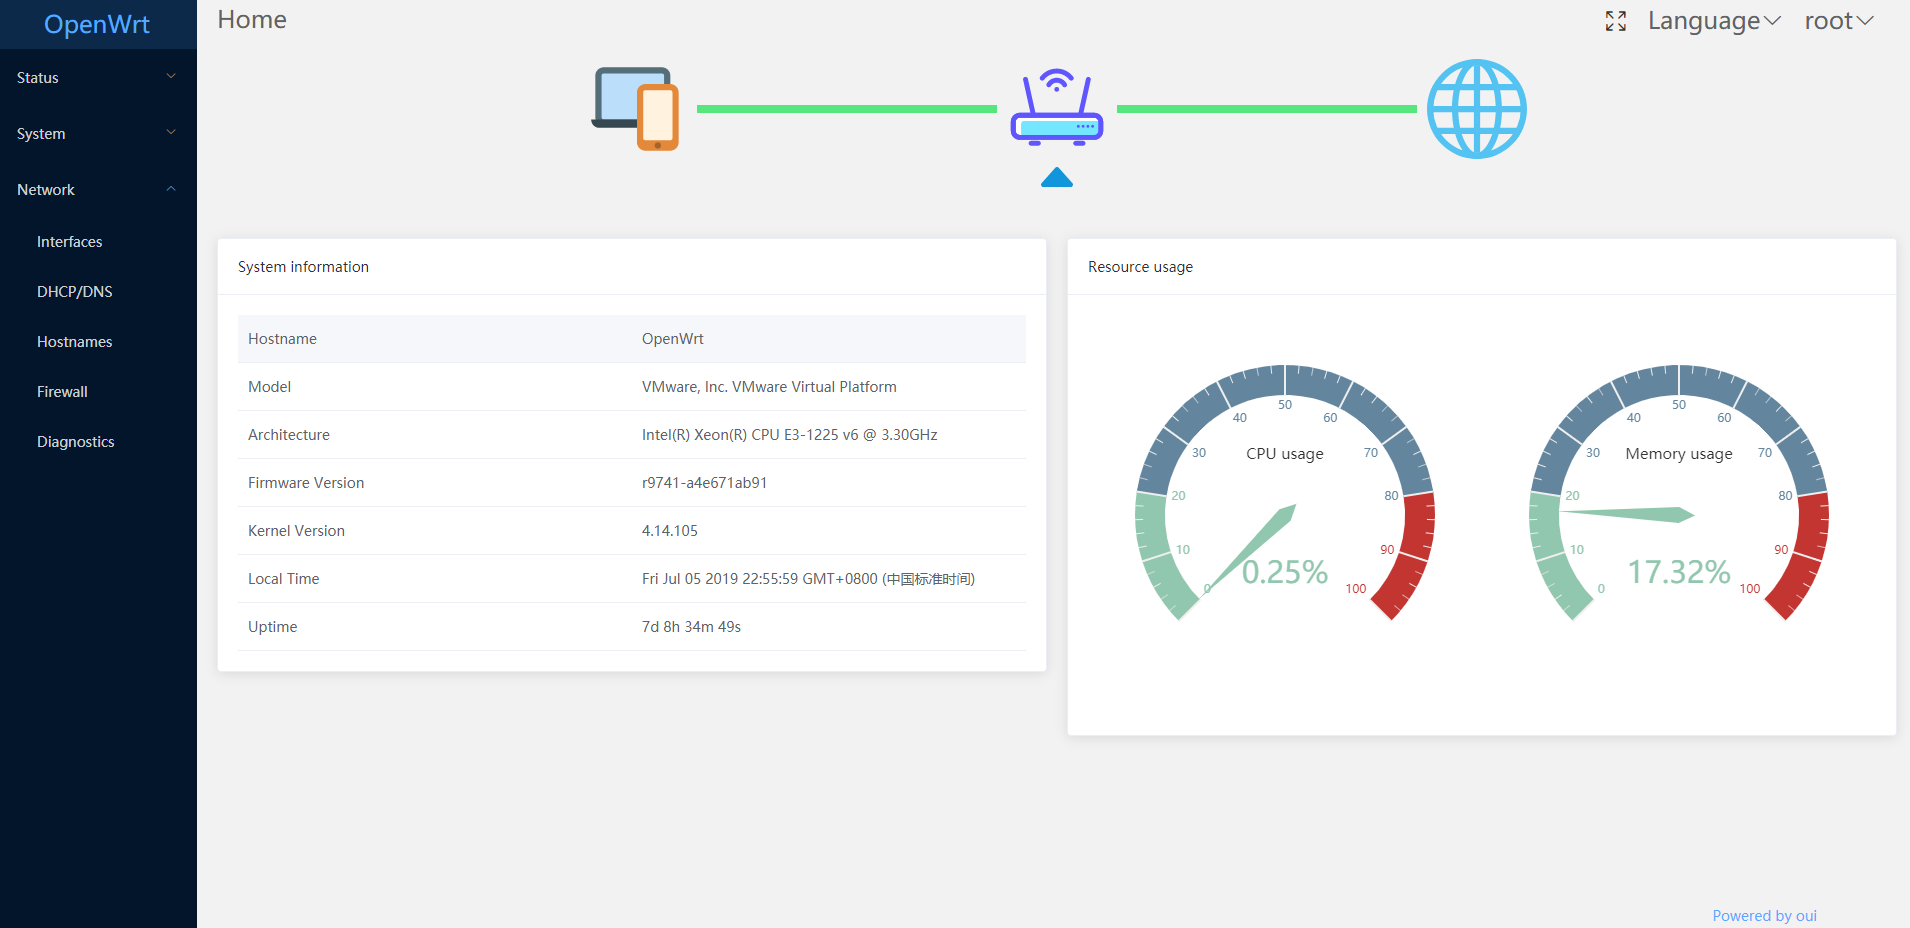
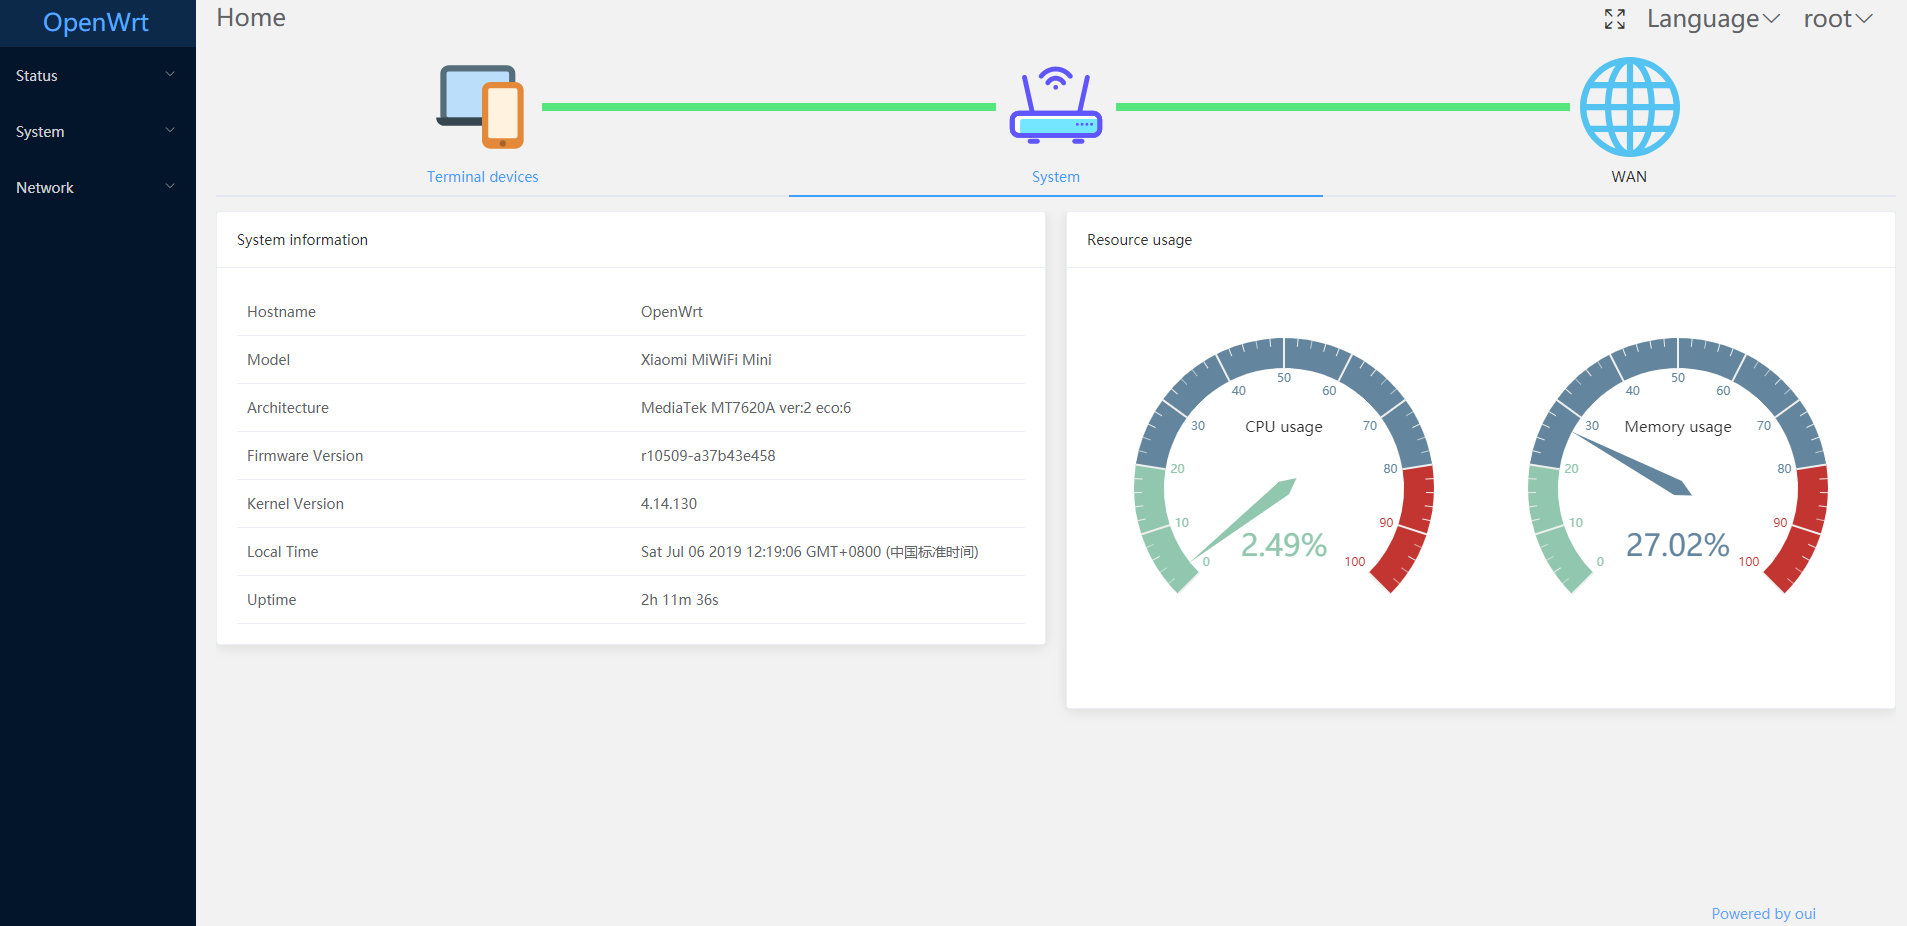
home.vue: Improve

diff --git a/oui-ui-core/src/src/views/home.vue b/oui-ui-core/src/src/views/home.vue
@@ -1,50 +1,42 @@
 <template>
-  <div class="oui-home">
-    <el-row type="flex" justify="center" align="middle">
-      <div class="header" @click="content = 'devices'">
-        <img src="/icons/devices.png" />
-      </div>
-      <oui-line length="300px"></oui-line>
-      <div class="header" @click="content = 'router'">
-        <img src="/icons/router.png" />
-      </div>
-      <oui-line length="300px" :disconnect="!wanIsUp"></oui-line>
-      <div class="header" @click="content = 'internet'">
-        <img src="/icons/internet.png" />
-      </div>
+  <div>
+    <el-row type="flex" justify="center" align="middle" class="oui-home-status-img">
+      <img src="/icons/devices.png" @click="tab = 'devices'" />
+      <oui-line :length="statusLineLength"></oui-line>
+      <img src="/icons/router.png" @click="tab = 'router'" />
+      <oui-line :length="statusLineLength" :disconnect="!wanIsUp"></oui-line>
+      <img src="/icons/internet.png" @click="tab = 'internet'" />
     </el-row>
-    <el-row type="flex" justify="center" align="middle" style="margin-bottom: 15px">
-      <img src="/icons/arrow_up.png" :style="{opacity: content !== 'devices' ? 0 : 1}" />
-      <oui-line length="340px" style="opacity: 0"></oui-line>
-      <img src="/icons/arrow_up.png" :style="{opacity: content !== 'router' ? 0 : 1}" />
-      <oui-line length="340px" style="opacity: 0"></oui-line>
-      <img src="/icons/arrow_up.png" :style="{opacity: content !== 'internet' ? 0 : 1}" />
-    </el-row>
-    <div v-show="content === 'devices'">
-      <el-table :data="leases">
-        <el-table-column :label="$t('Hostname')" prop="hostname"></el-table-column>
-        <el-table-column :label="$t('IPv4-Address')" prop="ipaddr"></el-table-column>
-        <el-table-column :label="$t('MAC-Address')" prop="macaddr"></el-table-column>
-        <el-table-column :label="$t('Leasetime remaining')" :formatter="row => row.expires <= 0 ? $t('expired') : '%t'.format(row.expires)"></el-table-column>
-      </el-table>
-    </div>
-    <div v-show="content === 'router'">
-      <el-row :gutter="20" style="margin-bottom: 15px">
-        <el-col :span="12">
-          <card-list :title="$t('System information')" :list="sysinfo"></card-list>
-        </el-col>
-        <el-col :span="12">
-          <el-card :header="$t('Resource usage')">
-            <e-charts style="width: 100%" :options="resourceChart"></e-charts>
-          </el-card>
-        </el-col>
-      </el-row>
-    </div>
-    <div v-show="content === 'internet'">
-      <el-row type="flex" justify="center">
-        <CardList :title="$t('Network')" :list="waninfo" style="width: 600px"></CardList>
-      </el-row>
-    </div>
+    <el-tabs v-model="tab" stretch>
+      <el-tab-pane name="devices">
+        <span slot="label">{{ $t('Terminal devices') }}</span>
+        <el-table :data="leases">
+          <el-table-column :label="$t('Hostname')" prop="hostname"></el-table-column>
+          <el-table-column :label="$t('IPv4-Address')" prop="ipaddr"></el-table-column>
+          <el-table-column :label="$t('MAC-Address')" prop="macaddr"></el-table-column>
+          <el-table-column :label="$t('Leasetime remaining')" :formatter="row => row.expires <= 0 ? $t('expired') : '%t'.format(row.expires)"></el-table-column>
+        </el-table>
+      </el-tab-pane>
+      <el-tab-pane name="router">
+        <span slot="label">{{ $t('System') }}</span>
+        <el-row :gutter="20" style="margin-bottom: 15px">
+          <el-col :span="12">
+            <card-list :title="$t('System information')" :list="sysinfo"></card-list>
+          </el-col>
+          <el-col :span="12">
+            <el-card :header="$t('Resource usage')">
+              <e-charts style="width: 100%" :options="resourceChart"></e-charts>
+            </el-card>
+          </el-col>
+        </el-row>
+      </el-tab-pane>
+      <el-tab-pane name="internet">
+        <span slot="label">WAN</span>
+        <el-row type="flex" justify="center">
+          <CardList :title="$t('Network')" :list="waninfo" style="width: 600px"></CardList>
+        </el-row>
+      </el-tab-pane>
+    </el-tabs>
   </div>
 </template>
 
@@ -59,7 +51,8 @@ import 'echarts/lib/component/legendScroll'
 export default {
   data() {
     return {
-      content: 'router',
+      tab: 'router',
+      statusLineLength: '27%',
       sysinfo: [],
       waninfo: [],
       leases: [],
@@ -148,8 +141,8 @@ export default {
 </script>
 
 <style lang="scss">
-.oui-home {
-  .header {
+.oui-home-status-img {
+  img {
     cursor: pointer;
   }
 }
